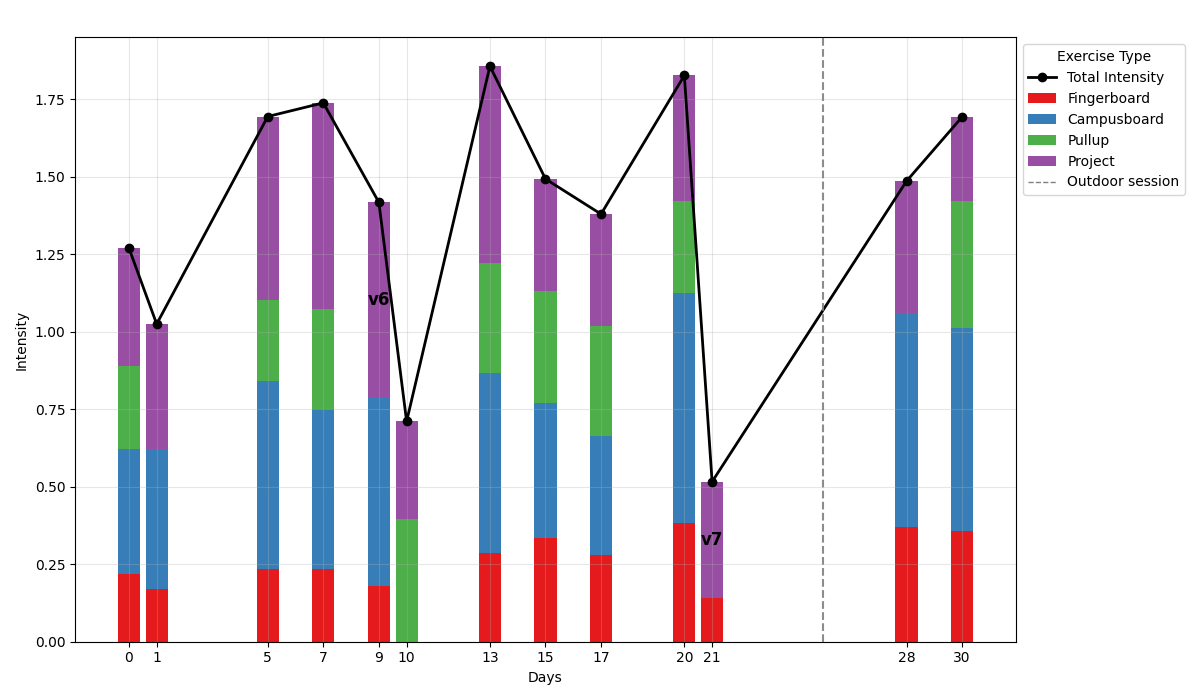
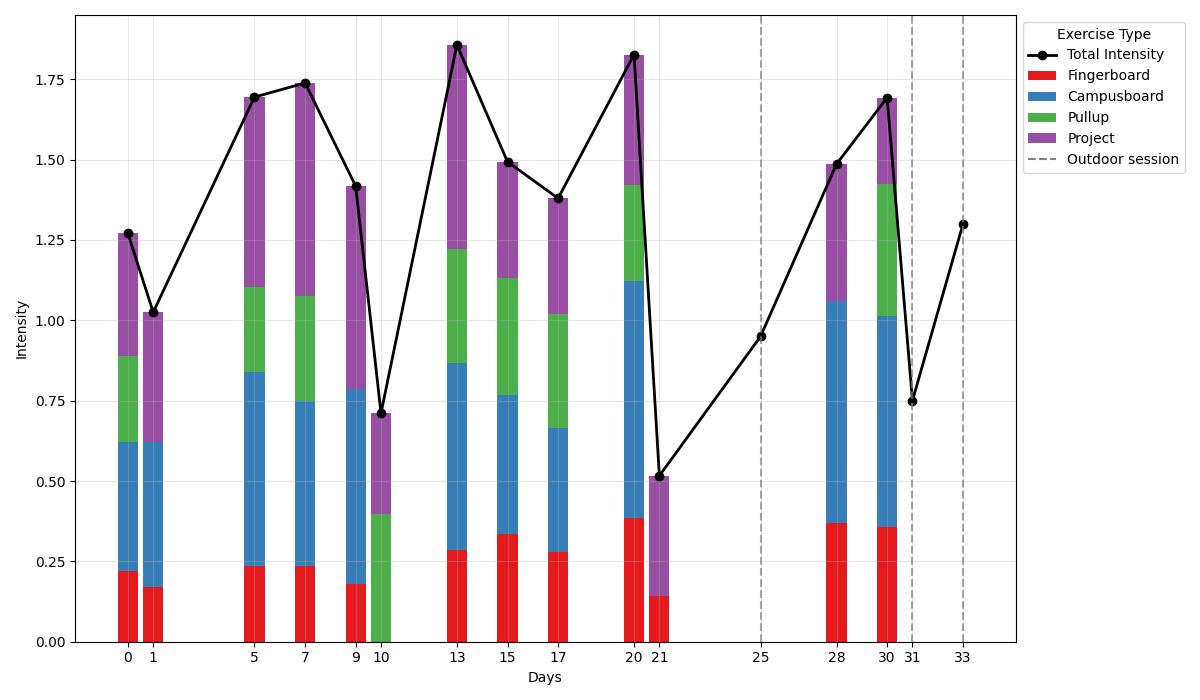
assign intensity to outdoor sessions

diff --git a/src/crimpy/intensity.py b/src/crimpy/intensity.py
@@ -66,6 +66,7 @@ class WorkoutIntensityCalculator:
                 breakdown["pullup"] += self.pullup_intensity(exercise)
             elif ex_type == "project":
                 breakdown["project"] += self.project_intensity(exercise)
+        breakdown["outdoor"] = self.outdoor_intensity()
         return breakdown
 
     def extract_edge_value(self, edge_str):
@@ -207,3 +208,50 @@ class WorkoutIntensityCalculator:
             intensity_set /= np.log(np.e - 1 + timeoff / 300)
             intensity += intensity_set
         return K_proj * intensity / 10
+
+    def outdoor_intensity(self):
+        """
+        Manually score each outdoor climb attempt based on grade, type, and success.
+        Returns a single float (summing all attempts × per‐attempt score).
+        """
+        # Base scores for lead attempts
+        GRADE_SCORES = {
+            "5c":  0.25,
+            "5c+": 0.30,
+            "6a":  0.40,
+            "6a+": 0.45,
+            "6b":  0.50,
+            "6b+": 0.55,
+            "6c":  0.60,
+            "6c+": 0.65,
+            "7a":  0.50,
+            "7a+": 0.55
+        }
+        total = 0.0
+
+        for climb in self.data.get("climbs", []):
+            if not climb.get("executed", False) or climb.get("order", 0) == 0:
+                continue
+
+            typ = climb.get("type", "").lower()
+            # toprope is 0.1 less on every score
+            type_penalty = 0.1 if typ == "toprope" else 0.0
+
+            for s in climb.get("sets", []):
+                grade = s.get("Grade", "").lower()
+                base = GRADE_SCORES.get(grade)
+                if base is None:
+                    # unknown grade → skip
+                    continue
+
+                # subtract for toprope
+                score = base - type_penalty
+                # subtract if not successful
+                if not s.get("success", False):
+                    score -= 0.1
+
+                # each attempt gets that score
+                attempts = s.get("attempts", 1)
+                total += max(score, 0) * attempts
+
+        return total
